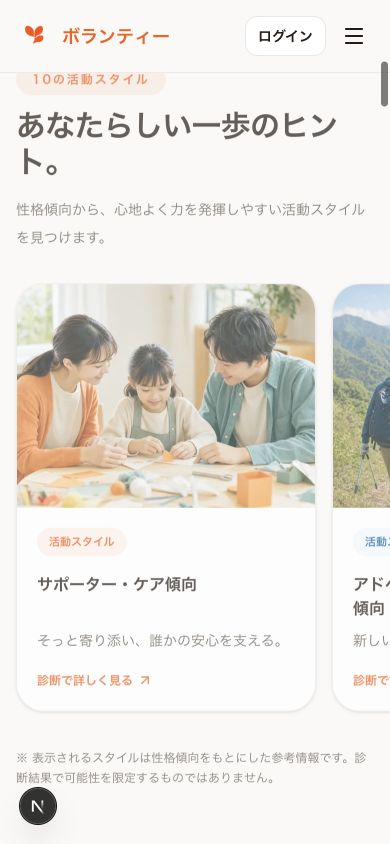
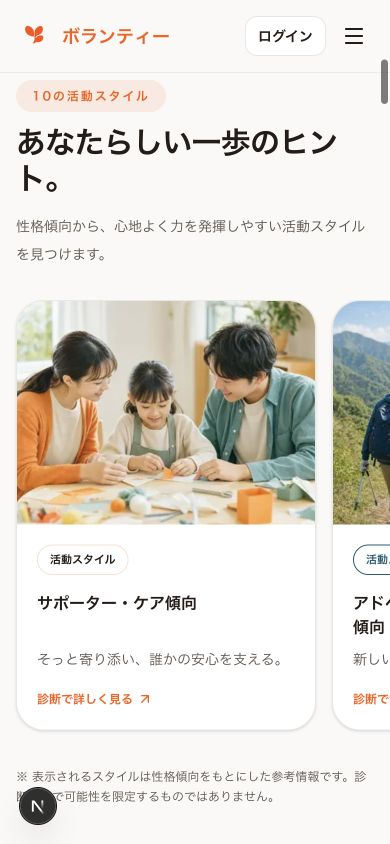
test: complete balanced pop mobile LP QA

Changed region(s): [[0.0308, 0.3389, 1.0, 0.8318], [0.0308, 0.0616, 0.9231, 0.3081], [0.0308, 0.8934, 0.9538, 0.955]]

diff --git a/app/e2e/guards.spec.ts b/app/e2e/guards.spec.ts
@@ -33,8 +33,9 @@ test.describe("未ログインLP（モバイル）", () => {
     );
 
     await page.getByRole("button", { name: "メニューを開く" }).click();
-    await expect(page.getByRole("navigation", { name: "モバイルナビゲーション" })).toBeVisible();
-    await page.getByRole("link", { name: "よくある質問" }).click();
+    const mobileNavigation = page.getByRole("navigation", { name: "モバイルナビゲーション" });
+    await expect(mobileNavigation).toBeVisible();
+    await mobileNavigation.getByRole("link", { name: "よくある質問" }).click();
     await expect(page).toHaveURL(/#faq$/);
 
     const secondQuestion = page.getByRole("button", {

diff --git a/docs/design/lp-mobile-reference/design-qa.md b/docs/design/lp-mobile-reference/design-qa.md
@@ -51,4 +51,18 @@
 3. 390px幅で見出しの折り返し、カード幅、横スクロール、FAQの密度を調整した。
 4. 参照との左右比較後、ヘッダーのブランドマーク、後半セクションのアンカー、CTA装飾を最終調整した。
 
+## Balanced Pop 更新
+
+- source: `.superpowers/brainstorm/94684-1784211055/content/color-direction-v2.html` の A. Balanced Pop
+- [x] ブランドオレンジを主要CTAに維持した
+- [x] ティール・イエロー・パープルをセクションとカードへ一貫して配分した
+- [x] 問題・解決、FAQ開閉、導線が色だけに依存していない
+- [x] 390px幅で横あふれがない
+- [x] A案モックと実装を同一画像内で比較した
+- [x] 強い色面が連続せず、写真とウォームホワイトの余白を維持した
+- [x] 本文と白抜き文字の可読性、角丸、余白、画像クロップ、見出し折り返しに破綻がない
+- [x] FAQ 2件目の展開、モバイルメニューの開閉、CTAリンクを実画面で確認した
+- [x] 表示画像18点の読み込み失敗とブラウザーconsole errorが0件であることを確認した
+- [x] `document.documentElement.scrollWidth === 390` を確認した
+
 final result: passed
